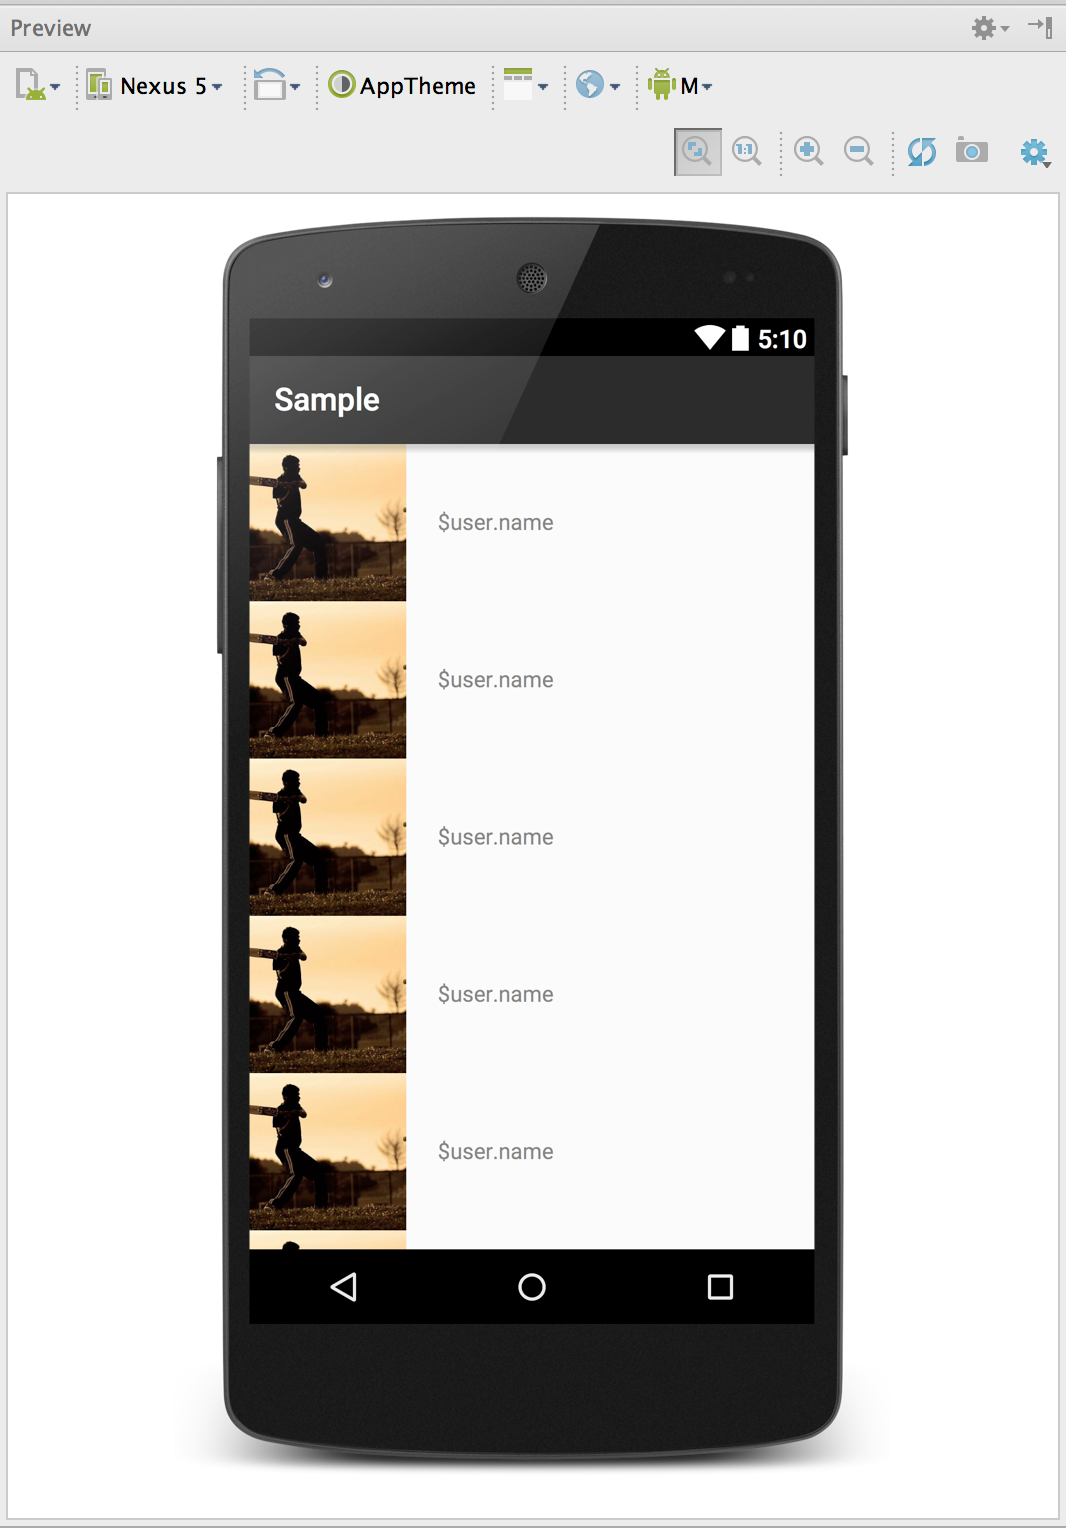
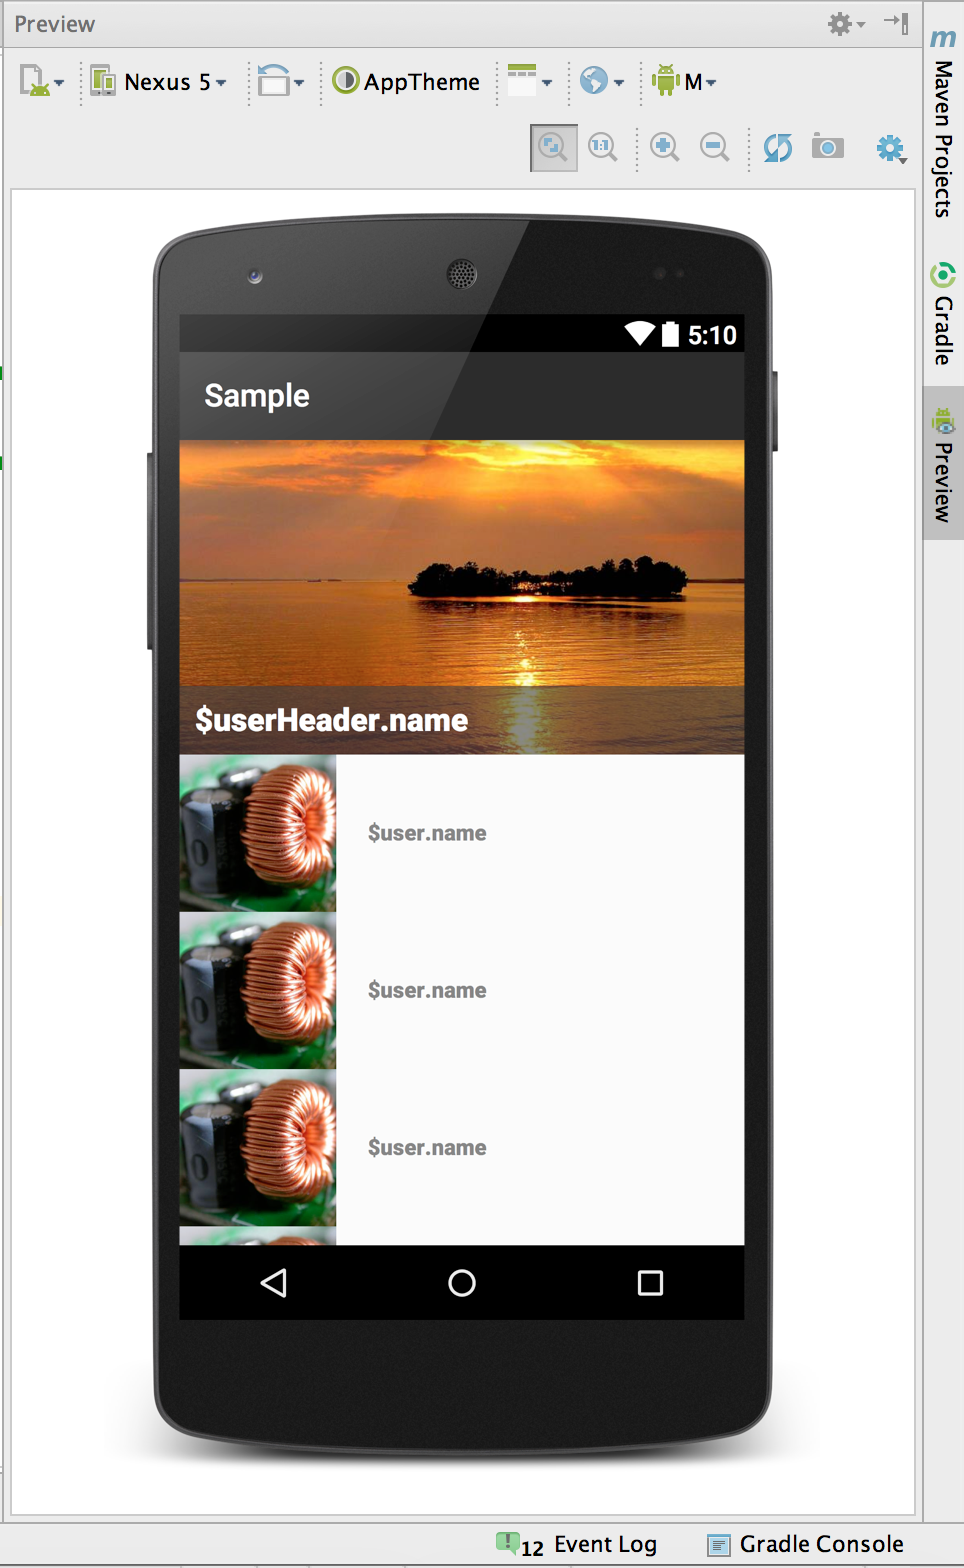
updated README

diff --git a/README.md b/README.md
@@ -117,6 +117,7 @@ R.layout.activity_main_recyclerview_mapping
                     android:layout_height="match_parent"
 
                     android:tag="
+                        addHeader(header,R.layout.header_user);
                         adapter(user,R.layout.cell_user)
                     "
                     />
@@ -159,6 +160,7 @@ Finally, in your activiy/fragment you just have to indicate the List to map !
 setContentView(R.layout.activity_main_recyclerview_mapping);
 Carpaccio carpaccio = (Carpaccio)findViewById("R.id.carpaccio");
 carpaccio.mapList("user", this.users);
+carpaccio.mapObject("header", this.headerObject);
 ```
 
 ------------
